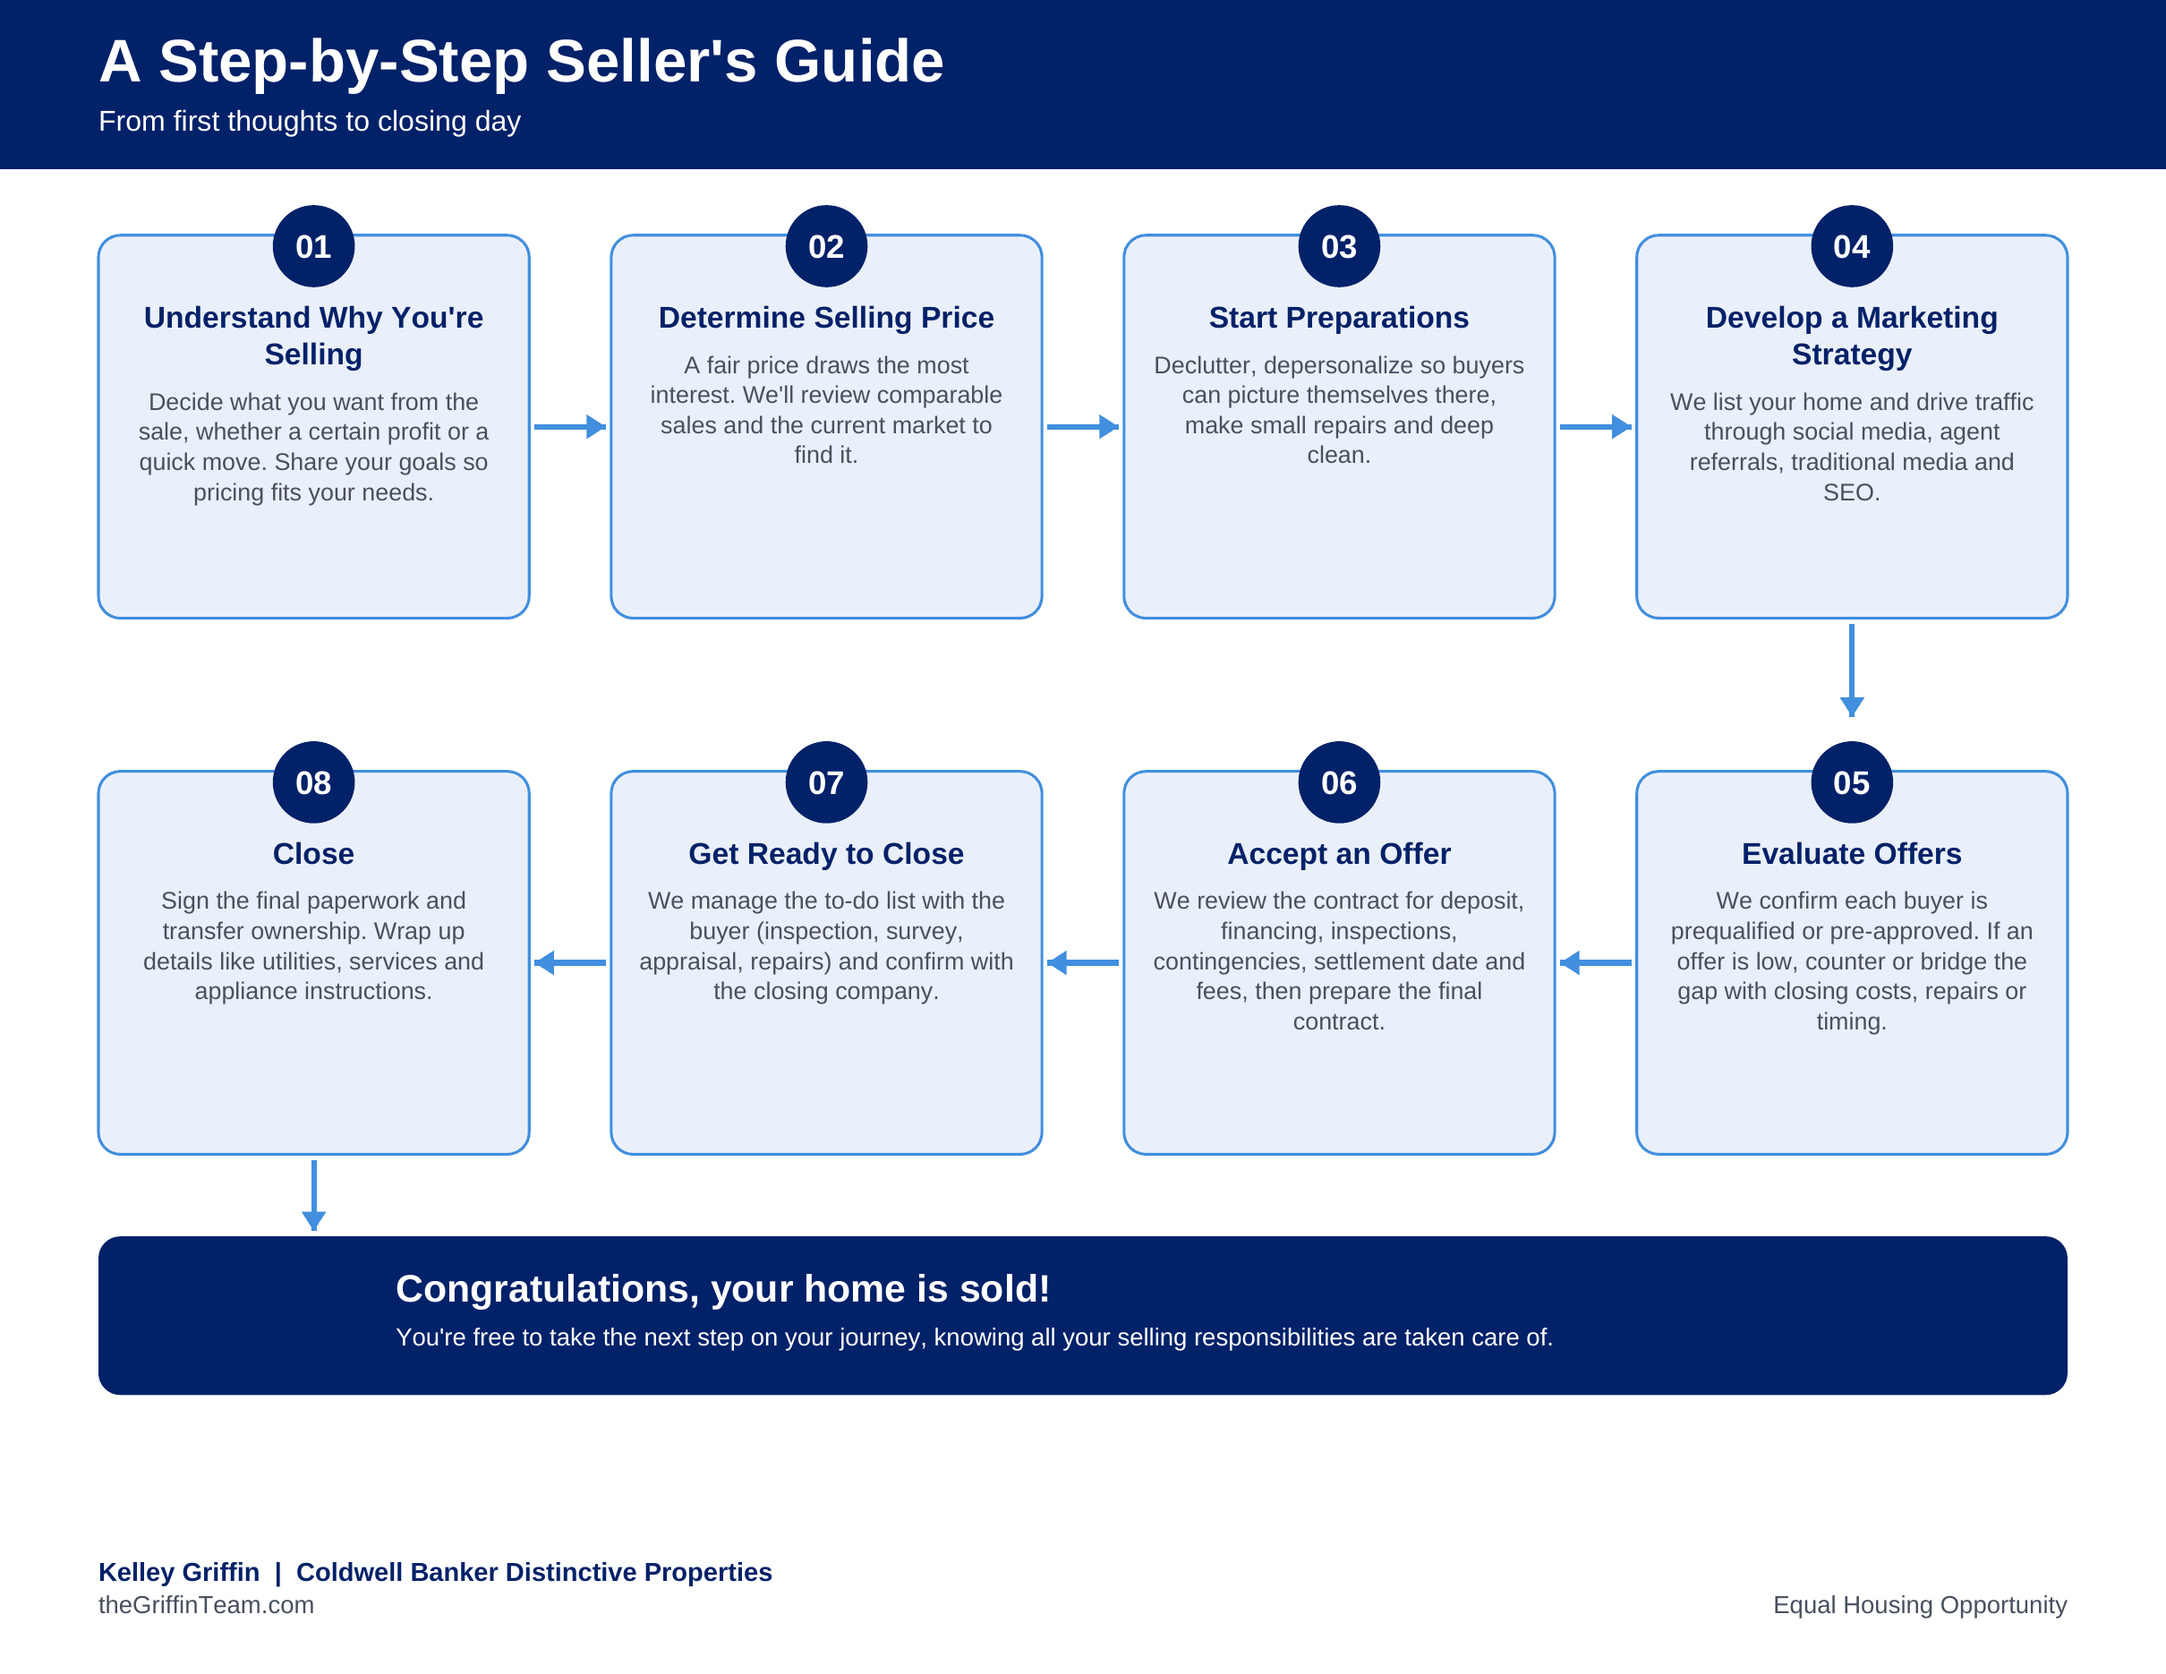
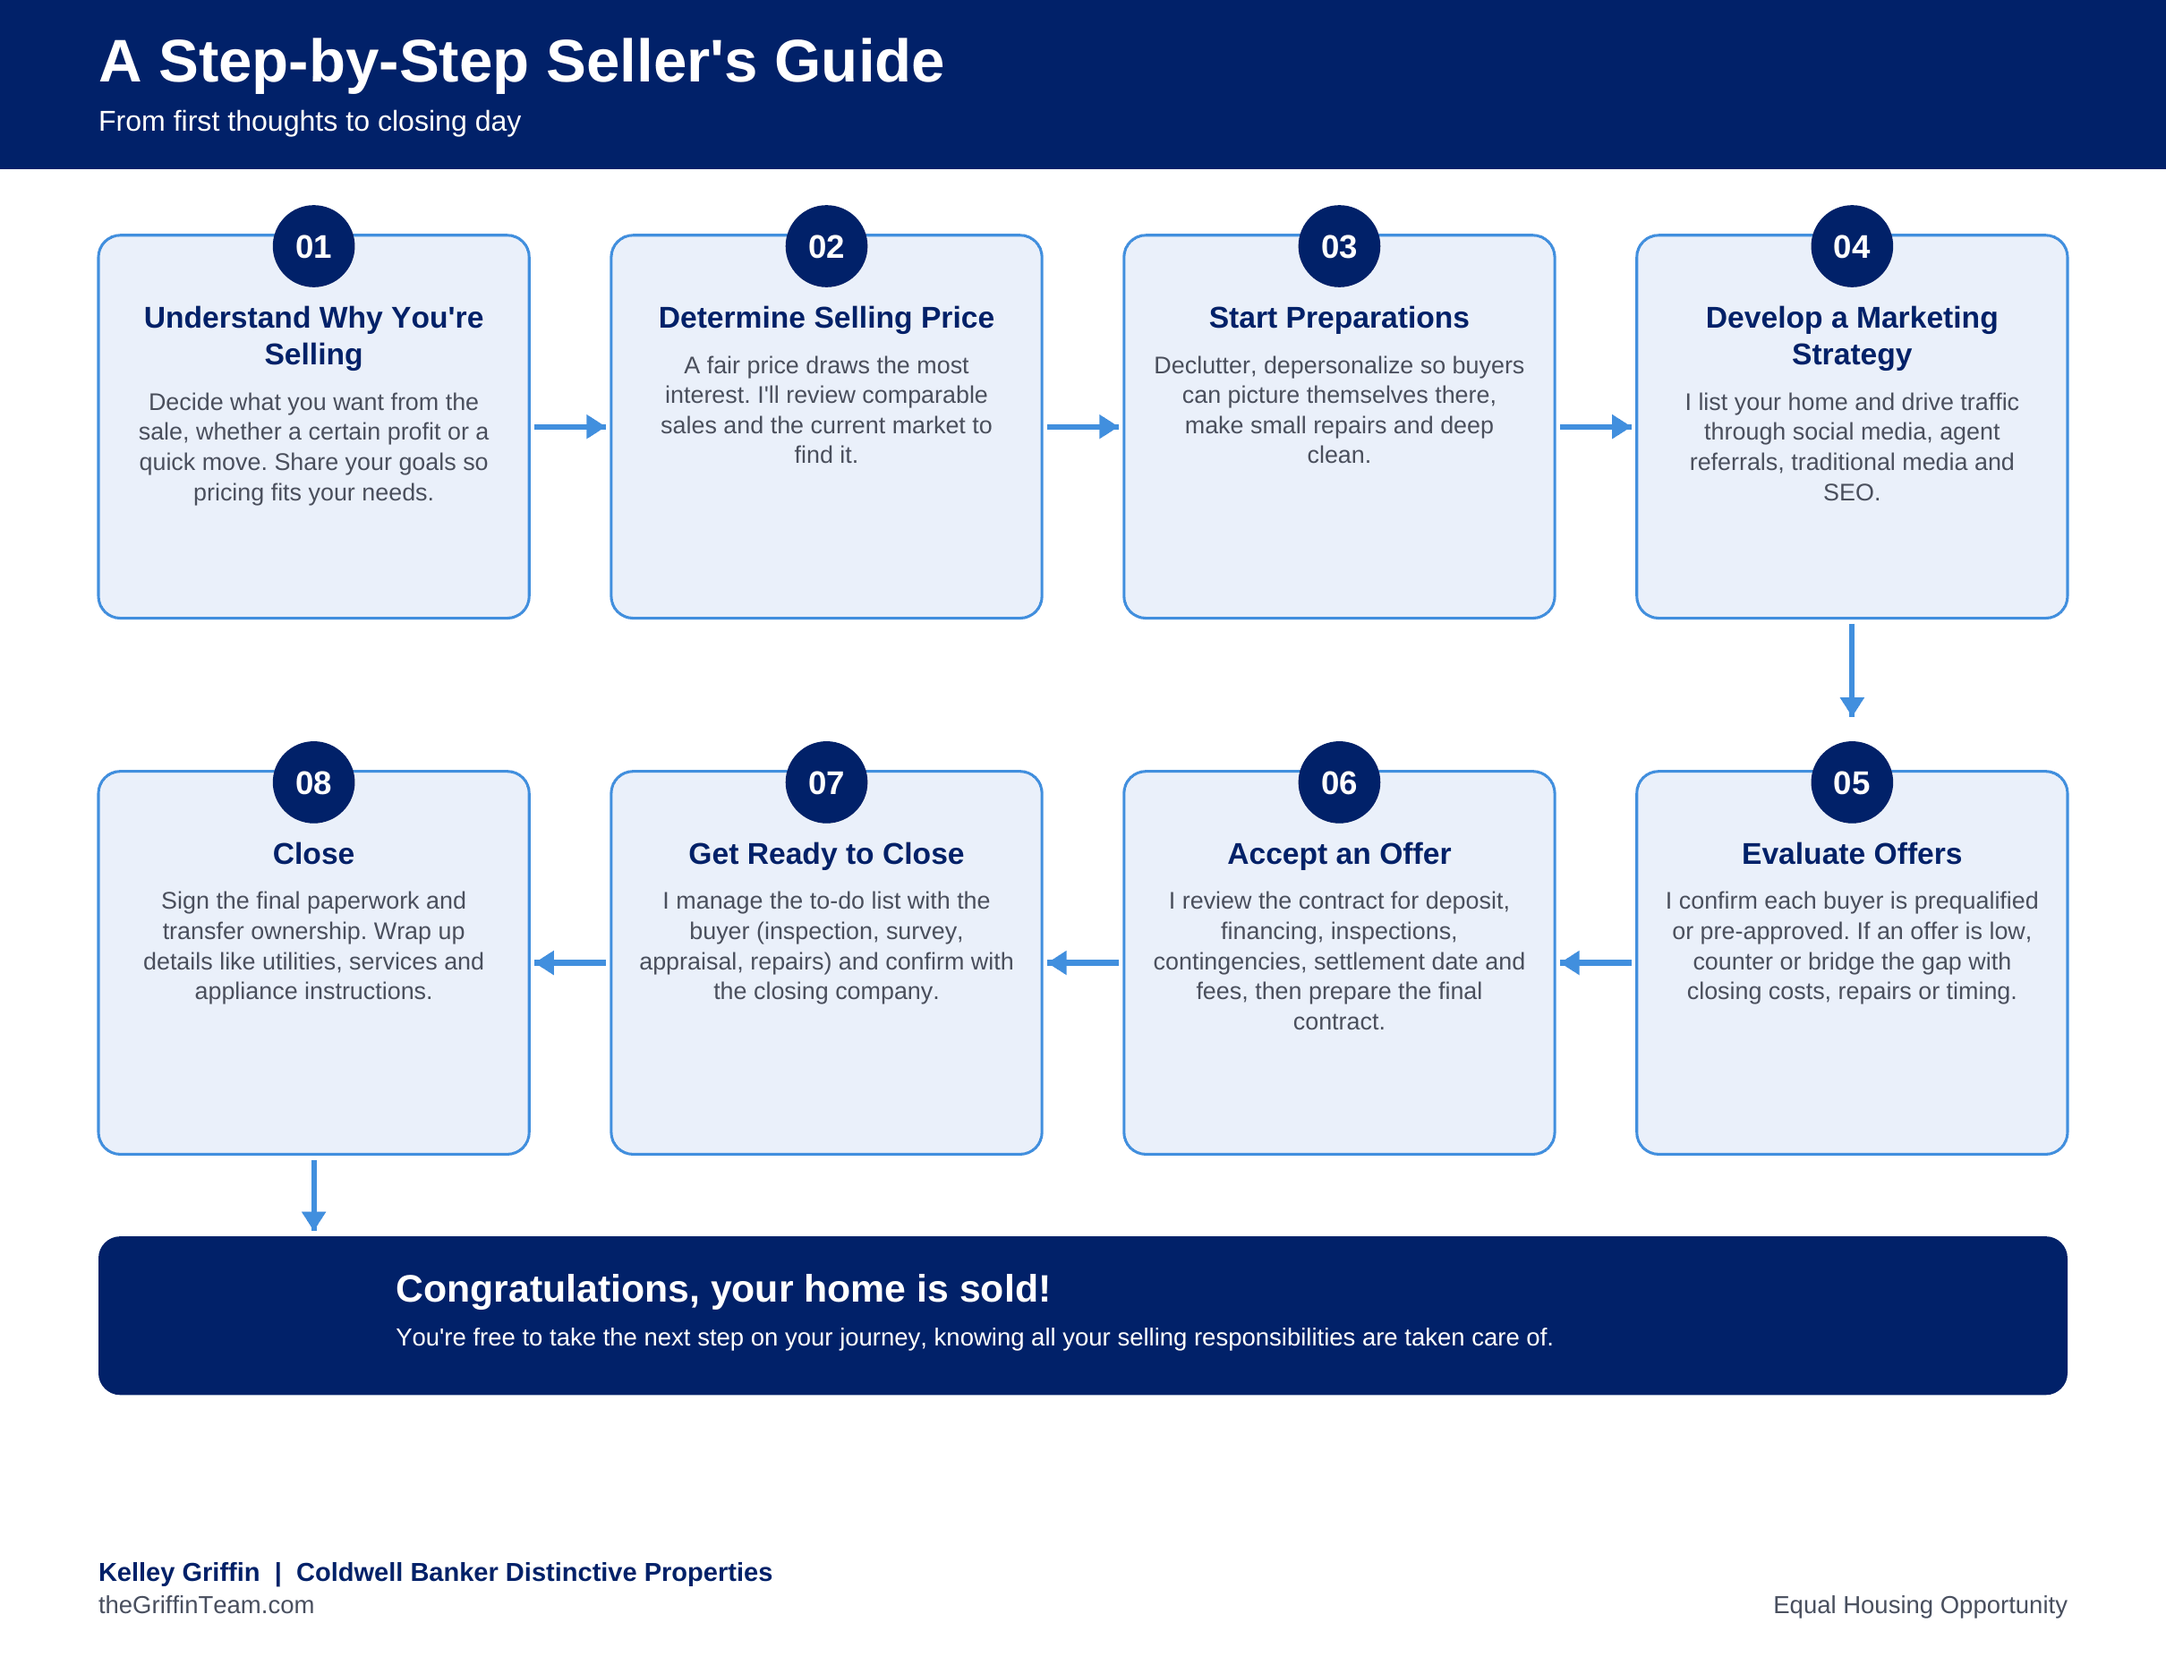
Kelley's follow-ups: updated flow chart PDFs, her Client Words photo, Buying top photo back to the river canyon with the new-construction home beside Ready to buy, new lots photo beside Ready to sell, Kelley and Dane selfie on the home page, new Neighborhoods photo
Claude-Session: https://claude.ai/code/session_01Bzd3a6yBVgFfeGWVvryDRT

diff --git a/src/build.py b/src/build.py
@@ -339,7 +339,7 @@ def home_body():
         <p>Three boys, one dog, and a husband who <em>builds houses.</em></p>
       </div>
       <div class="meet__pics">
-        <figure class="meet__pic-a" data-sc-in><img src="assets/kelley-dane.jpg" alt="Kelley and Dane Griffin smiling together, dressed up for an evening out" width="1200" height="1600" loading="lazy"></figure>
+        <figure class="meet__pic-a" data-sc-in><img src="assets/kelley-dane-selfie.jpg" alt="Kelley and Dane Griffin smiling in a selfie on a sunny mountain trail" width="1200" height="1600" loading="lazy"></figure>
         <figure class="meet__pic-b" data-sc-in><img src="assets/griffin-family-garden.jpg" alt="The Griffin family, five of them, in a garden among pink flowers" width="1600" height="1926" loading="lazy"></figure>
       </div>
     </div>
@@ -517,7 +517,7 @@ def build_team():
 def build_guides():
     bbody = f"""
 <section class="sc-section" style="padding-top:0"><div class="sc-wrap split split--sticky">
-  <figure data-sc-in><img src="assets/listing-2521-woody-creek.jpg" alt="Aerial view of a new-home neighborhood in Grand Junction, with an open homesite in front and the Book Cliffs on the horizon" width="1024" height="682" loading="lazy"></figure>
+  <figure data-sc-in><img src="assets/new-construction-craftsman.jpg" alt="A newly built craftsman-style home with board-and-batten siding, red trim and a covered front porch, under a clear blue sky" width="2560" height="1920" loading="lazy"></figure>
   <div class="prose" data-sc-in data-sc-stagger="60">
     <h2>Ready to buy?</h2>
     <p>Buying a home is exciting! But it can also be stressful and time consuming. I will use your “wants and needs” list to help you sort through available listings, set up and attend showings, and provide you with relevant information about the different properties. I will continue this process until you find “the one.” At that point I will help with all of the contracts and paperwork necessary to complete the transaction.</p>
@@ -532,10 +532,10 @@ def build_guides():
 <div class="prose" style="max-width:52rem;margin-top:3rem" data-sc-in><h3>Congratulations!</h3><p>It may take a few days for your loan to fund. Once the seller is paid, you’re ready to move in.</p></div></div></section>
 {cta_band("My goal is personalized service, designed to help you buy your dream home.", "Schedule a consultation and we will start the search together.")}"""
     write("buyers-guide.html", page_shell(f"Buyer's Guide to Buying a Home in the Grand Valley | {TEAM}", "Kelley Griffin's step-by-step guide to buying a home in Fruita and Grand Junction: budget, pre-approval, showings, offers, inspection and closing.", "buyers-guide.html",
-        page_hero("Buying", "Step-by-step buyer's guide", "From the wants-and-needs list to the keys in your hand.", photo="new-construction-craftsman.jpg", alt="A newly built craftsman-style home with board-and-batten siding, red trim and a covered front porch, under a clear blue sky", whole=True), bbody))
+        page_hero("Buying", "Step-by-step buyer's guide", "From the wants-and-needs list to the keys in your hand.", photo="fruita-river-canyon.jpg", alt="The Colorado River winding through red rock canyons below a rocky overlook near Fruita"), bbody))
     sbody = f"""
 <section class="sc-section" style="padding-top:0"><div class="sc-wrap split split--sticky">
-  <figure data-sc-in><img src="assets/kelley-dane-selfie.jpg" alt="Kelley and Dane Griffin smiling in a selfie on a sunny mountain trail" width="1200" height="1600" loading="lazy"></figure>
+  <figure data-sc-in><img src="assets/listing-2521-woody-creek.jpg" alt="Aerial view of a new-home neighborhood in Grand Junction, with an open homesite in front and the Book Cliffs on the horizon" width="1024" height="682" loading="lazy"></figure>
   <div class="prose" data-sc-in data-sc-stagger="60">
     <h2>Ready to sell?</h2>
     <p>Whether you’re moving up, downsizing, or relocating for a new job, the decision to sell often comes down to what your home is worth. Values are always changing, so I’ll provide a current market analysis (CMA) that compares your home to recent sales in your area. It shows what your home could sell for in today’s market, at no cost to you.</p>
@@ -565,7 +565,7 @@ def build_neighborhoods():
         cards += f'<a class="card card--type" href="neighborhood-{p["slug"]}.html" data-sc-in><span class="card__n">{i:02d}</span><h3>{esc(p["name"])}</h3><p>{esc(p["blurb"])}</p><span class="sc-label">{esc(p["elev"])}</span><span class="link">Explore {esc(p["name"].replace("The ", "the "))}</span></a>'
     body = f"""<section class="sc-section" style="padding-top:0"><div class="sc-wrap"><div class="cards" data-sc-stagger="70" data-sc-in>{cards}</div></div></section>{cta_band("Which one is yours?", "Tell Kelley how you want to live and she will tell you where in the valley that happens.")}"""
     write("neighborhoods.html", page_shell(f"Grand Valley Neighborhoods: Fruita, Redlands, Grand Junction, Loma, Palisade, Grand Mesa | {TEAM}", "Kelley Griffin's guides to Fruita, the Redlands, Grand Junction, Loma, Palisade and the Grand Mesa: recreation, amenities and local attractions.", "neighborhoods.html",
-        page_hero("Neighborhoods", "Six places. One valley.", "West to east, the places Kelley helps people buy and sell.", photo="fruita-river-canyon.jpg", alt="The Colorado River winding through red rock canyons below a rocky overlook near Fruita"), body))
+        page_hero("Neighborhoods", "Six places. One valley.", "West to east, the places Kelley helps people buy and sell.", photo="mesa-snowy-trail.jpg", alt="A groomed ski trail through deep snow and dark spruce on the Grand Mesa, under a bright winter sky"), body))
     for i, p in enumerate(PLACES):
         prev_ = PLACES[i-1] if i > 0 else PLACES[-1]; next_ = PLACES[(i+1) % len(PLACES)]
         def ul(items): return "<ul>" + "".join(f"<li>{esc(x)}</li>" for x in items) + "</ul>"
@@ -588,7 +588,7 @@ def build_testimonials():
     items = "".join(f'<blockquote class="tcard" data-sc-in><p>{esc(t)}</p><footer>{esc(n)}</footer></blockquote>' for n, t in REVIEWS)
     body = f"""<section class="sc-section" style="padding-top:0"><div class="sc-wrap"><div class="tcards">{items}</div></div></section>{cta_band()}"""
     write("testimonials.html", page_shell(f"Client Testimonials | {NAME}, {TEAM}", "What clients say about working with Kelley Griffin, Coldwell Banker Distinctive Properties, in Fruita and Grand Junction, Colorado.", "testimonials.html",
-        page_hero("Client words", "What my clients say", f"{NUMBER_WORDS.get(len(REVIEWS), len(REVIEWS))} of the people Kelley has helped, in their own words.", photo="mesa-sunset-road.jpg", alt="Sunset over the Grand Mesa from a snowy road beside the Grand Mesa National Forest sign"), body))
+        page_hero("Client words", "What my clients say", f"{NUMBER_WORDS.get(len(REVIEWS), len(REVIEWS))} of the people Kelley has helped, in their own words.", photo="client-words-monument.jpg", alt="Golden evening light on a sandstone cliff in the Colorado National Monument, above a grassy meadow and cottonwoods"), body))
 
 def build_sold():
     items = "".join(f'<div class="sale" data-sc-in><div class="sale__pic"><img src="assets/{pic}" alt="{esc(addr)}" width="{img_size(pic)[0]}" height="{img_size(pic)[1]}" loading="lazy"></div><div class="sale__price">{price}</div><div class="sale__addr">{esc(addr)}</div><div class="sale__meta">Sold · {esc(meta)}</div></div>' for price, addr, meta, pic in SOLD)
